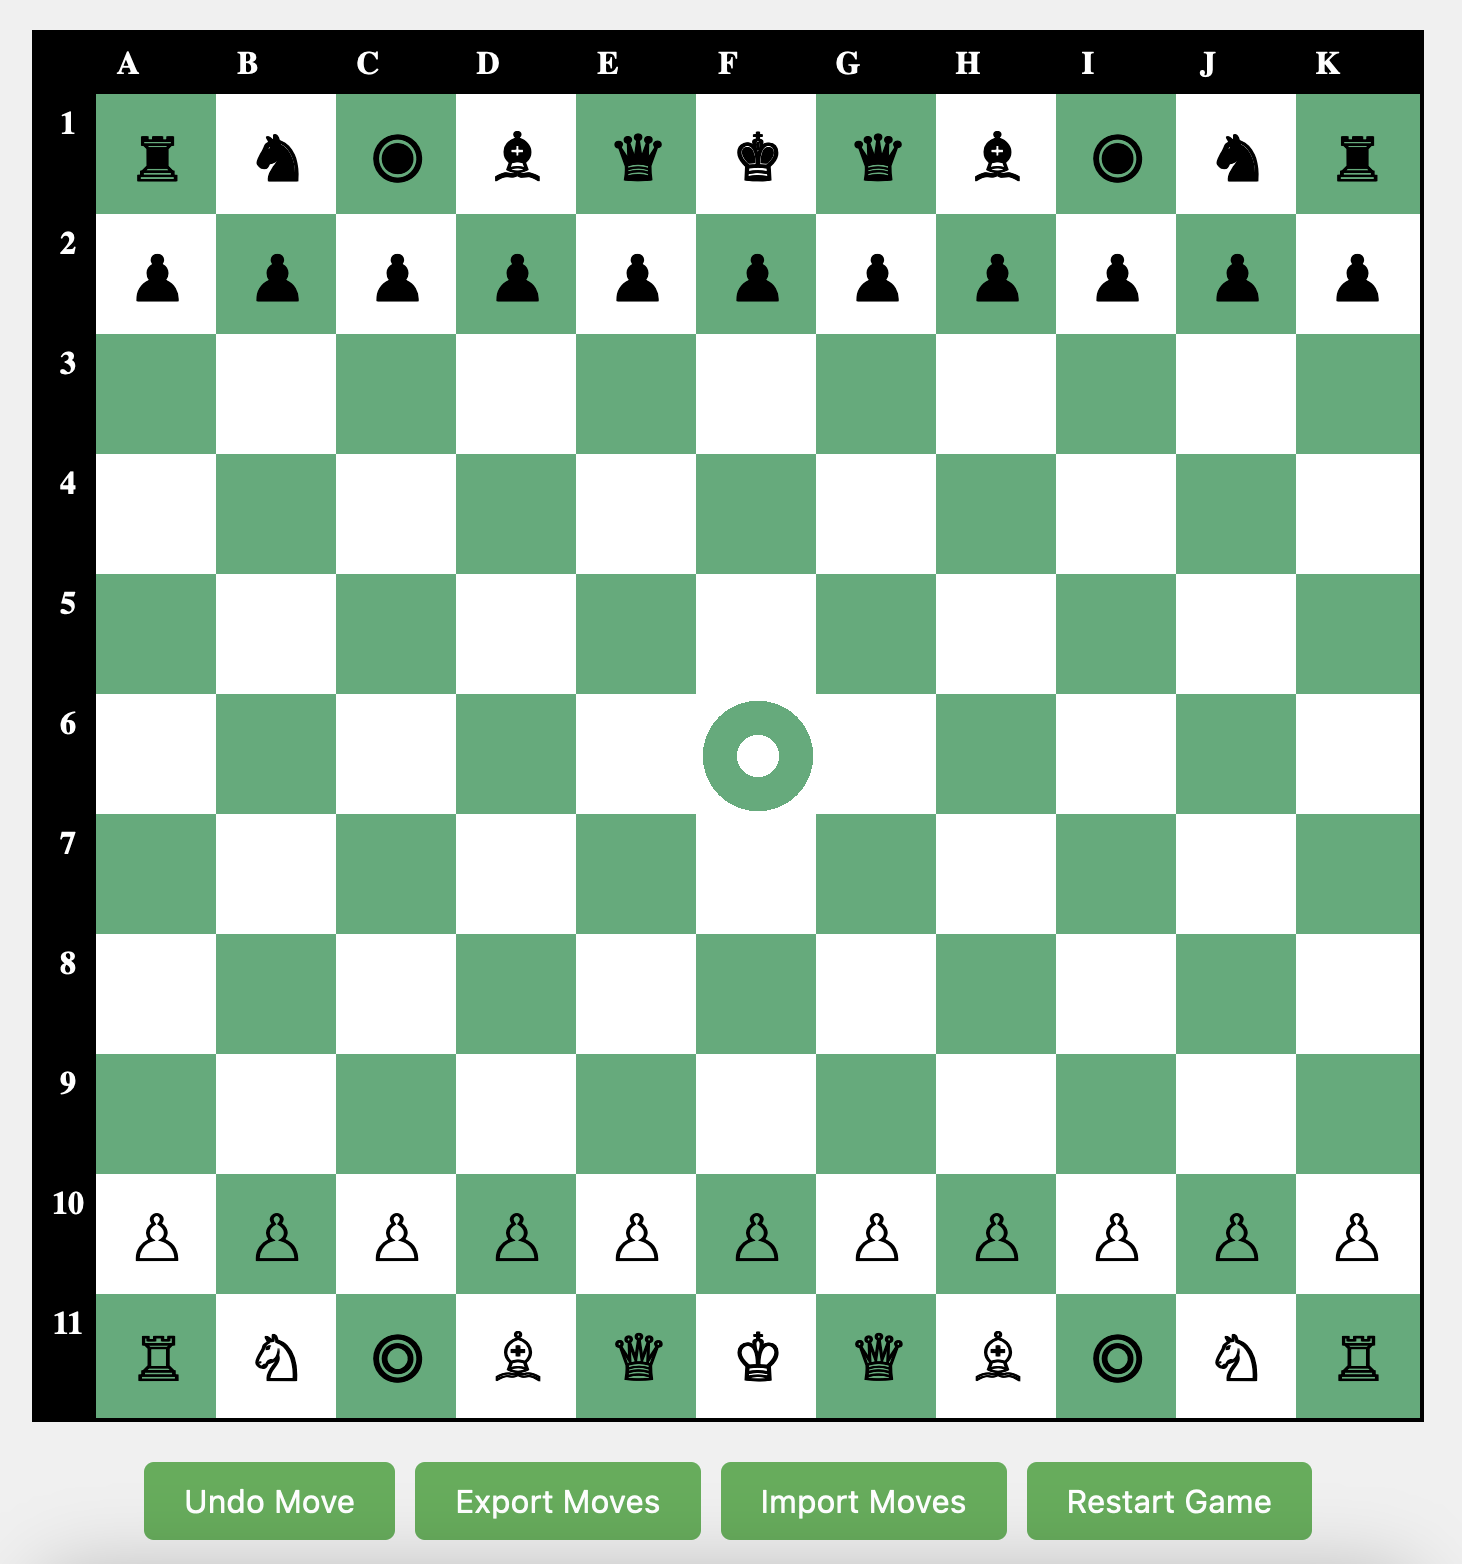
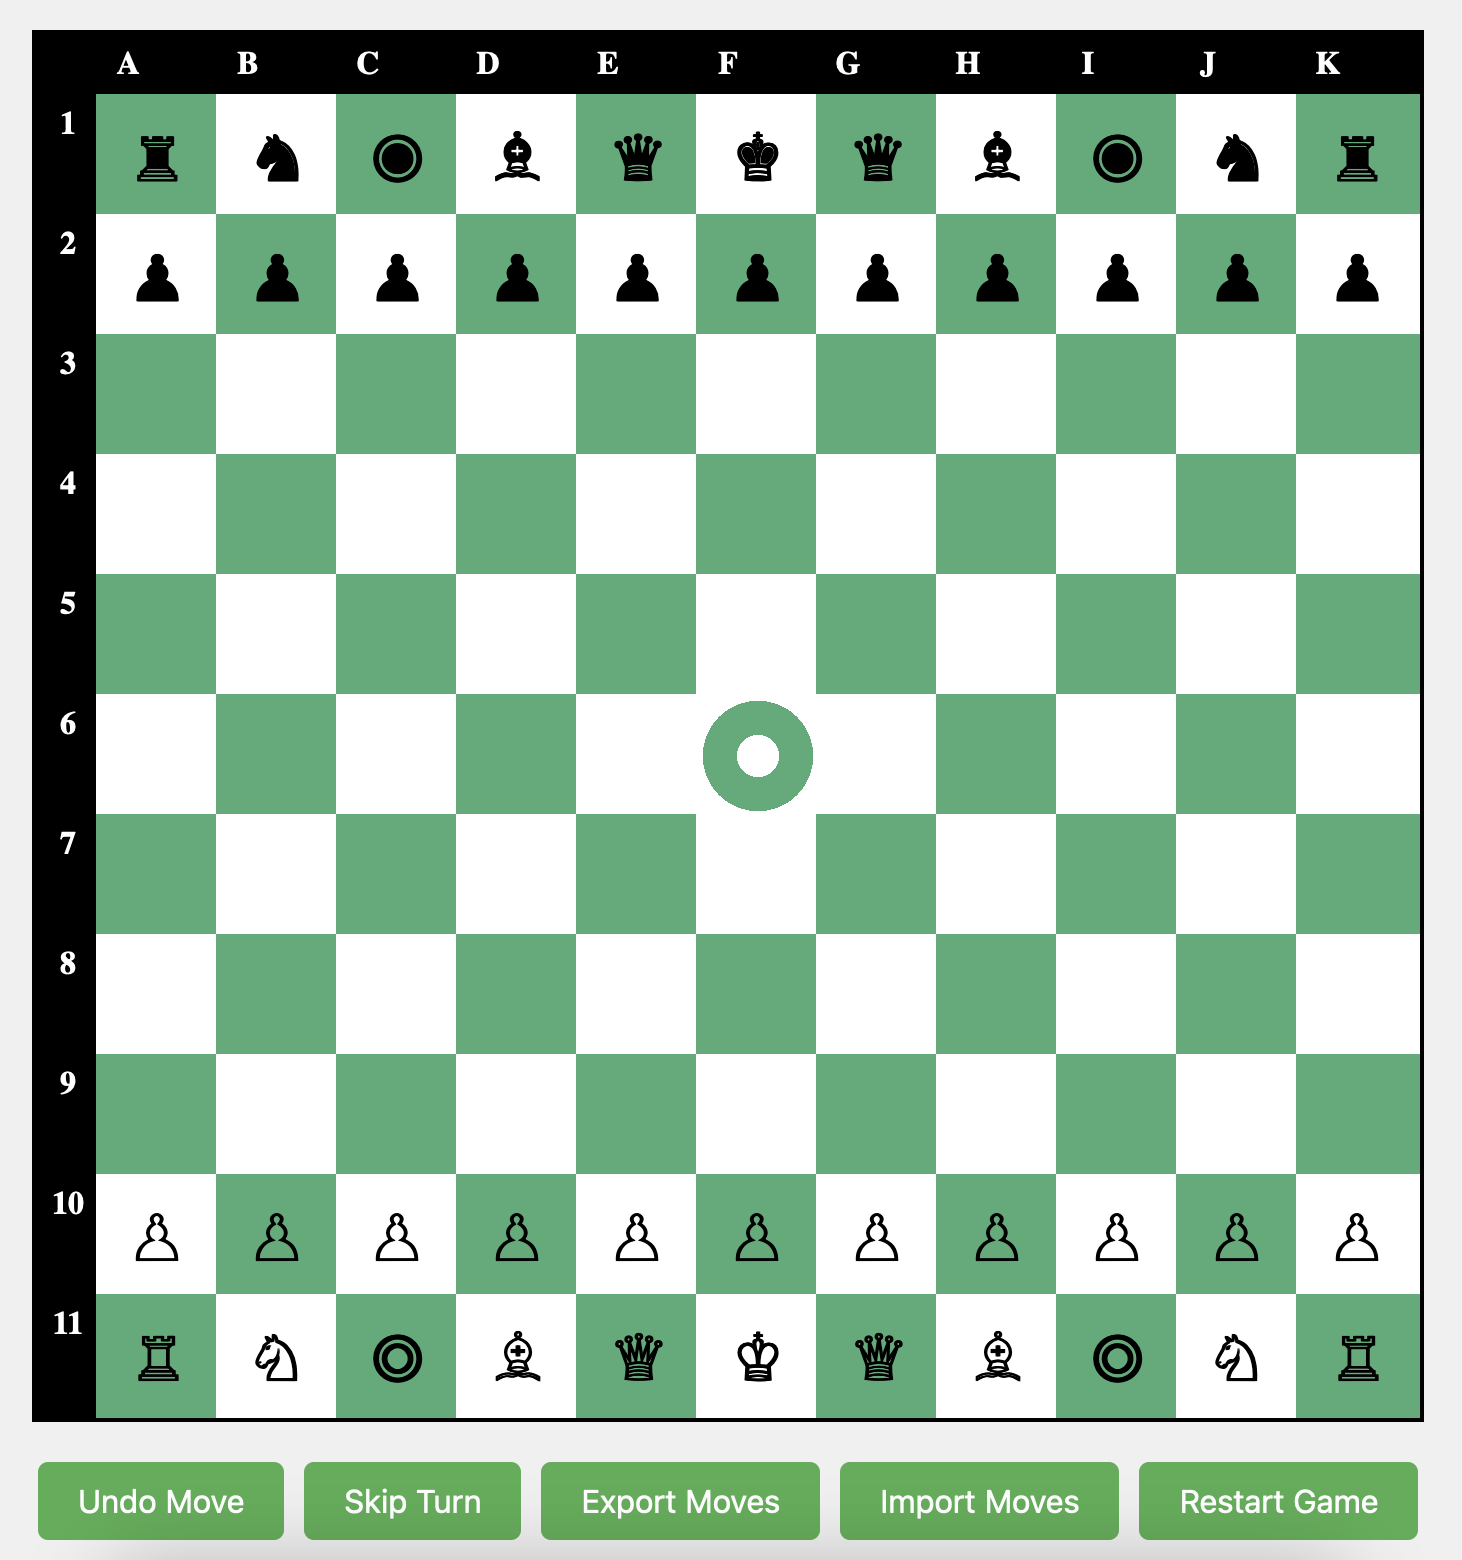
add skip turn button

diff --git a/demo/script.js b/demo/script.js
@@ -122,6 +122,14 @@ function handleImportClick() {
     }
 }
 
+function handleSkipClick() {
+    lastMovedPiece = lastMovedPiece === "white" ?  "black" : "white";
+    if (selectedCell) {
+        selectedCell.classList.remove("selected");
+        selectedCell = null;
+    }
+}
+
 // Event handlers
 function onCellClick(event) {
     const cell = event.currentTarget;
@@ -222,6 +230,9 @@ const initializeBoard = () => {
     
     const importButton = document.getElementById("import");
     importButton.addEventListener("click", handleImportClick);
+
+    const skipButton = document.getElementById("skip");
+    skipButton.addEventListener("click", handleSkipClick);
 };
 
 // When the DOM is fully loaded, initialize the game board

diff --git a/demo/index.html b/demo/index.html
@@ -11,6 +11,7 @@
         <div id="grid" class="grid"></div>
         <div class="button-container">
             <button id="undo" class="button">Undo Move</button>
+            <button id="skip" class="button">Skip Turn</button>
             <button id="export" class="button">Export Moves</button>
             <button id="import" class="button">Import Moves</button>
             <button id="restart" class="button">Restart Game</button>

diff --git a/README.md b/README.md
@@ -13,6 +13,7 @@ Live preview: <https://lordghostx.github.io/battlegrid/demo/>
 ## Functionality
 
 - **Undo Move**: Reverts the last move(s) made by any player
+- **Skip Turn**: Enables players to skip their turn if desired
 - **Export Moves**: Generates a custom [PGN format](https://en.wikipedia.org/wiki/Portable_Game_Notation) string representing the current gameplay
 - **Import Moves**: Imports gameplay from a string provided by the **Export Moves** function
 - **Restart Game**: Resets the entire gameplay. To preserve your progress, use the **Export Moves** function beforehand
